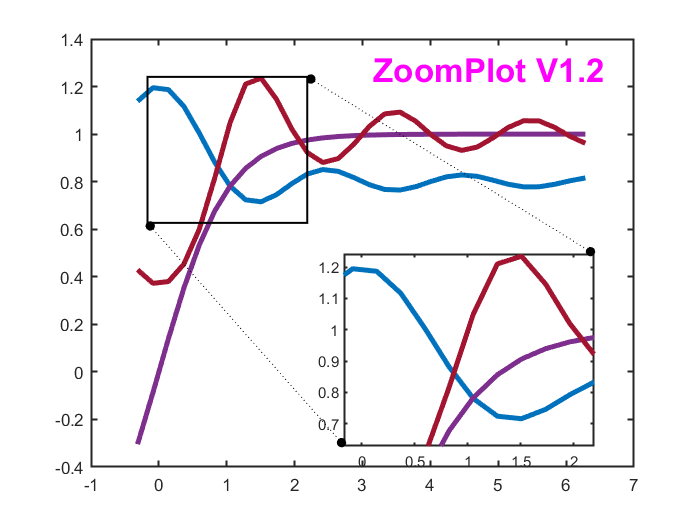
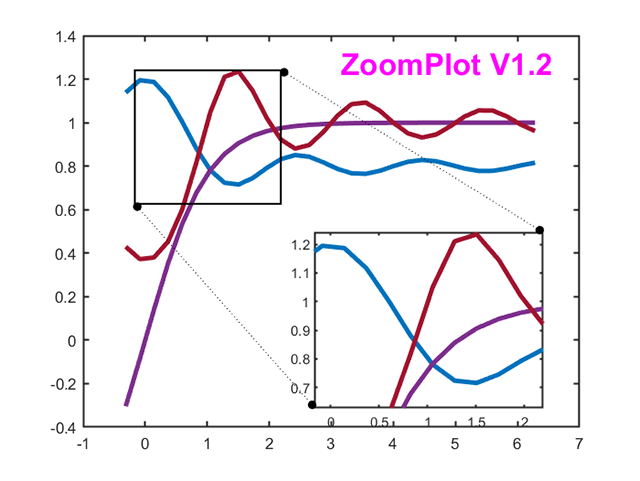
update the file

diff --git a/BaseZoom.m b/BaseZoom.m
@@ -302,9 +302,11 @@ classdef BaseZoom < handle
 
         function mappingParams = computeMappingParams(obj)
             % compute the mapping parameters
-            map_k_x = range(obj.mainAxes.XLim)/obj.mainAxes.Position(3);
+            rangeXLim = obj.mainAxes.XLim(1, 2)-obj.mainAxes.XLim(1, 1);
+            rangeYLim = obj.mainAxes.YLim(1, 2)-obj.mainAxes.YLim(1, 1);
+            map_k_x = rangeXLim/obj.mainAxes.Position(3);
             map_b_x = obj.mainAxes.XLim(1)-obj.mainAxes.Position(1)*map_k_x;
-            map_k_y = range(obj.mainAxes.YLim)/obj.mainAxes.Position(4);
+            map_k_y = rangeYLim/obj.mainAxes.Position(4);
             map_b_y = obj.mainAxes.YLim(1)-obj.mainAxes.Position(2)*map_k_y;
             mappingParams = [map_k_x, map_b_x; map_k_y, map_b_y];
         end
